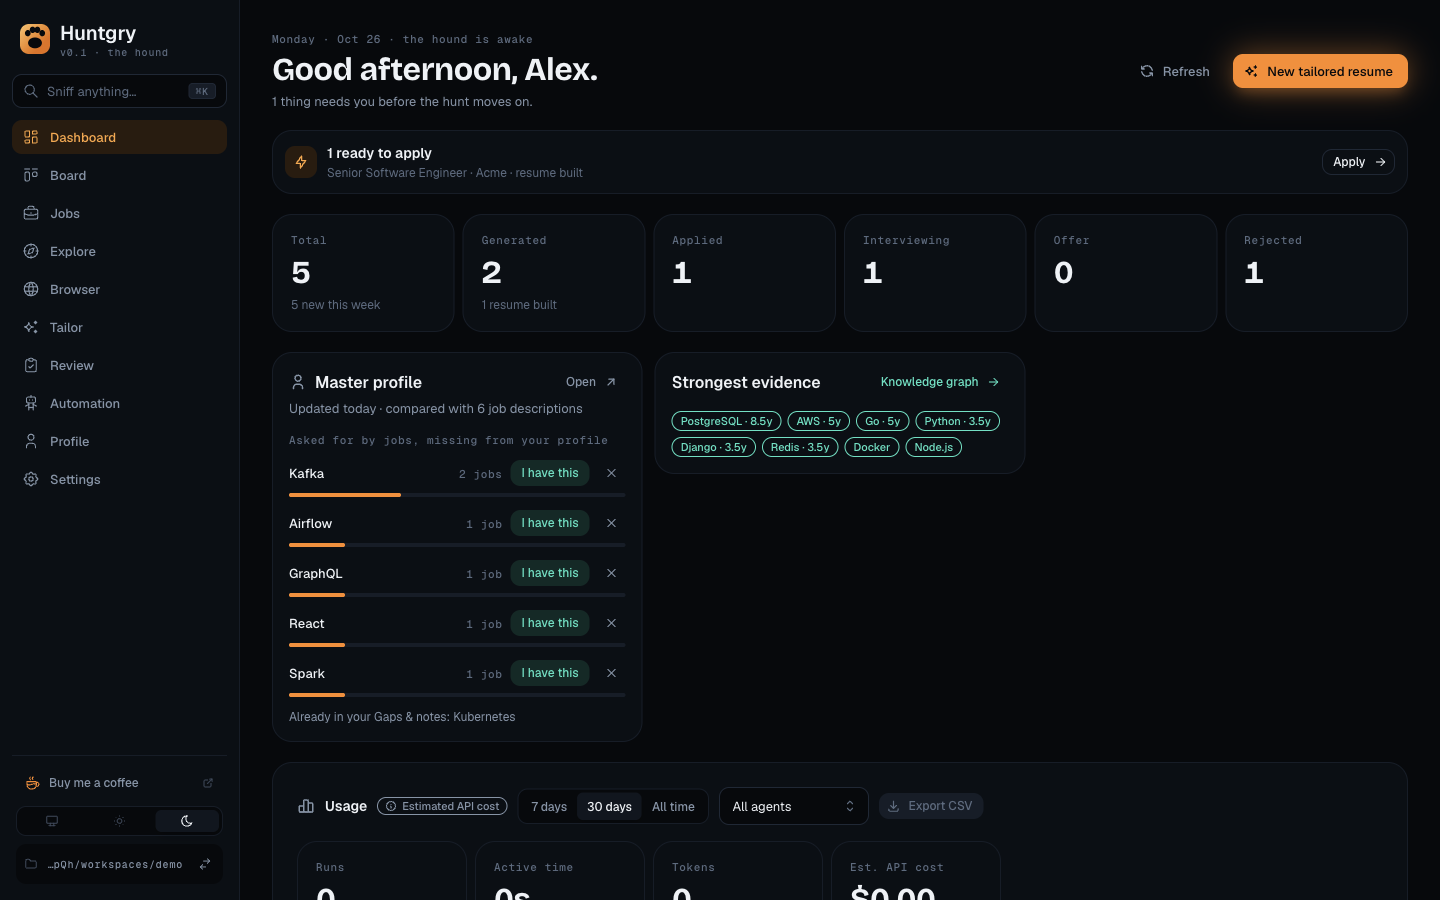
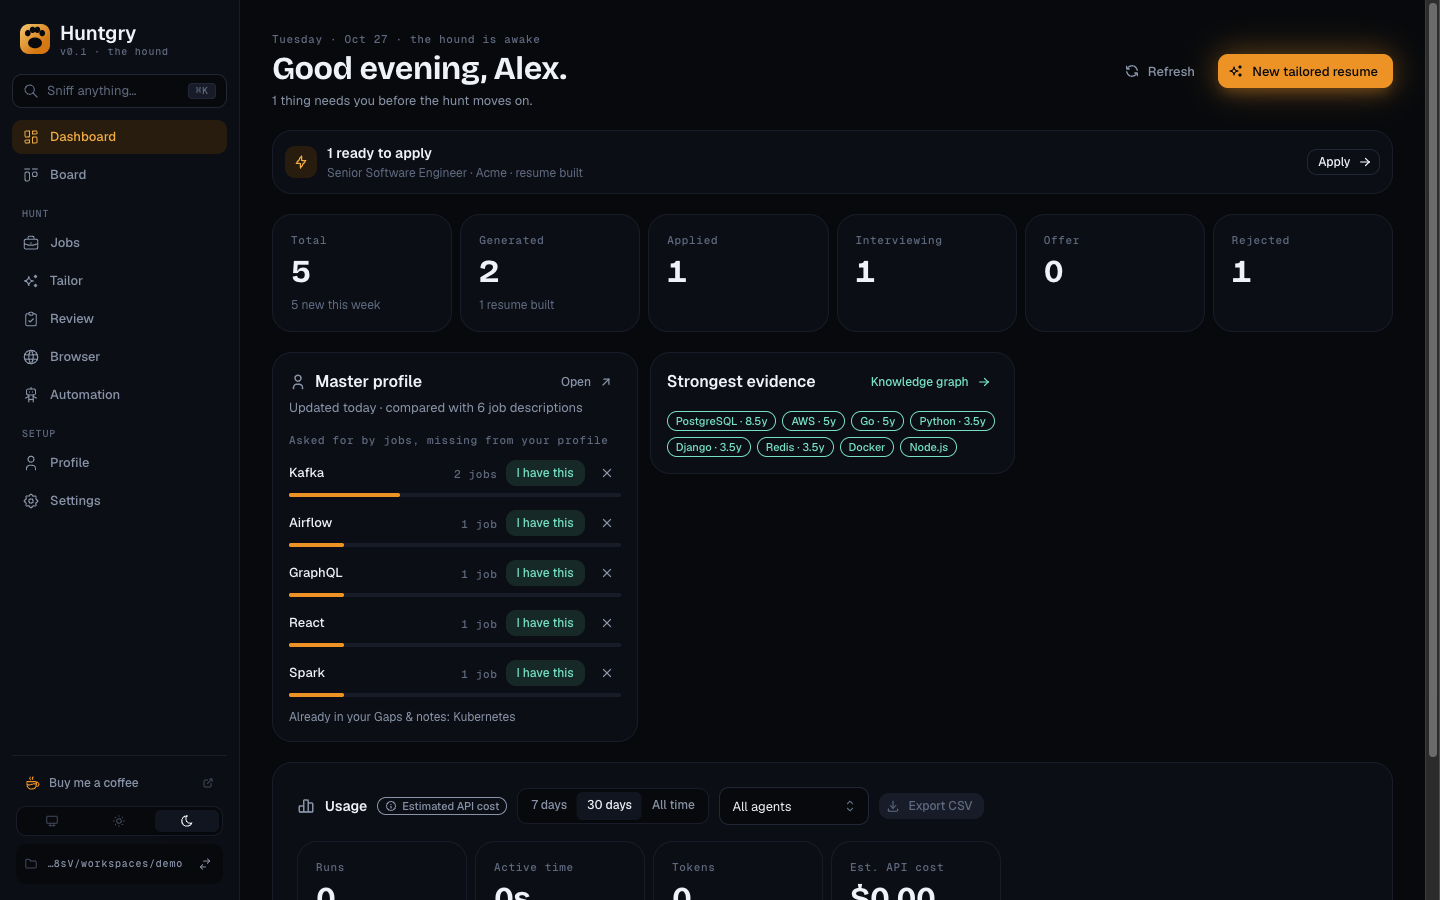
docs(jobs): document the Jobs tabs and retake the screenshots
Adds docs/changes/189-jobs-tabs.md with the PR screenshots, rewrites the
README's Finding jobs section for Discover and Saved, and retakes the README
shots for the regrouped sidebar.

Refs #189

diff --git a/docs/changes/189-jobs-tabs.md b/docs/changes/189-jobs-tabs.md
@@ -1,0 +1,72 @@
+# #189 — Jobs: Discover and Saved tabs, one match score, sidebar in hunt order
+
+Issue: [silentashish/huntgry#189](https://github.com/silentashish/huntgry/issues/189) · Merges Explore (#142, #169) into Jobs (#78, #111); one score from the match score (#149, #150).
+
+## Context & problem
+
+Explore and Jobs listed the same kind of job row on two pages. A job saved from Explore then showed in three places: Explore as "Added", Jobs, and Board → To do. The two pages scored the same job with two numbers: *Software Engineer, New Grad · Northwind Labs* read **25 match** on Explore and **59 scent** on Jobs, the match score of #149 next to the relevance score of #73. Their filter bars named the same things differently (H1B vs. Visa, On Site vs. Onsite), there were two ways to add a job on Jobs (a URL box and "Paste a job"), and the sidebar listed Explore and Browser between Jobs and Tailor, not in the order a hunt goes.
+
+## What changed and why
+
+| Area | Files | What |
+| --- | --- | --- |
+| Jobs page | `pages/jobs/index.tsx`, `pages/jobs/tabs.ts` | One page with a `Discover` · `Saved (n)` switch under the header, the Profile page's view-switch pattern (a `SegmentedControl` named "Jobs view", picked by `params.tab`, so each tab is deep-linkable). The page owns the saved list both tabs read, the open drawer and the Add job dialog. `jobsTab(params, savedCount)` is the pure rule for the tab it opens on: `openId` → Saved, else `tab`, else Saved when there is a saved job in play and Discover when there is none. Once chosen the tab stays, so saving the first job on Discover does not jump to Saved. |
+| Discover | `pages/jobs/discover/*` (moved from `pages/explore/*`) | The old Explore page as a tab, its logic unchanged: category, Jobright banner, day buttons, filters, rows, Refresh and "Updated … ago". "Add to Jobs" is **Save**; a saved row reads **Saved ✓** and clicking it switches to Saved with the job's drawer open. A saved row shows its saved job's match score, so the two tabs agree even after the full posting was fetched. |
+| Saved | `pages/jobs/SavedTab.tsx`, `view.ts` | The old Jobs page body, behaviour unchanged: Relevant / All / Not tailored / Tailored / Dismissed, filters, Tailor all, Dismiss, the drawer. `relevanceView` (was `scentView`) scores every job once and returns the relevance (ranks Relevant, gives "why it fits"), the Relevant list and the match score of every job. |
+| One score | `JobRow.tsx`, `JobDrawer.tsx`, `MatchBadge.tsx`, `labels.ts`, `shared/explore-score.ts`, `pages/board/card.ts`, `BoardCardView.tsx` | Rows show the `MatchBadge` Discover shows; the drawer and Board cards show the match score in their ring, with what it is made of (you have / missing / failed must-haves). `jobMatch(job, signals)` gives a saved job's match score the way its Discover row was scored: exact from the description, a title-only "≈" estimate without one. Relevance is still computed and still ranks Relevant, but it is no longer shown as a number. "Strong / Fair / Faint scent" reads "… match"; the ring's name is "Match N of 100". |
+| Add job | `pages/jobs/AddJobModal.tsx`, `addJob.ts` (replaces `PasteModal.tsx`) | One "Add job" button in the header, on both tabs, opens one dialog with one box. `addJobInput` decides: a lone http(s) URL is a link (Huntgry reads the posting), 50+ characters of anything else are a posting's text (title, company and link fields appear, optional). The Board's header button and the ⌘K action ("Add job") open the same dialog; the Board's To do link box stays. Main's "paste the description" hint now names "Add job". |
+| Filter labels | `discover/DiscoverTab.tsx` | Discover's H1B select is "Visa sponsorship" with the Saved tab's options (`Visa: any`, `Visa: hide "no sponsorship"`, `Visa: only sponsors`); its work model is "Workplace" with `Onsite`. Same filter values underneath. |
+| Sidebar | `navigation.ts`, `components/shell/Sidebar.tsx`, `shell.module.css` | `NAV_GROUPS` is the one place the order is written: Dashboard, Board · **Hunt**: Jobs, Tailor, Review, Browser, Automation · **Setup**: Profile, Settings. `PAGES` is derived from it and the ⌘K palette's Go to follows `PAGES`. A group is a `role="group"` with `aria-label`; its label is a small muted `MonoLabel`, `aria-hidden` (the group name already announces it) and not focusable. |
+| Old Explore page | `navigation.ts`, `App.tsx`, `components/palette/*`, `AppLayout.tsx` | `explore` is gone from `PAGES`, `PAGE_LABEL`, the sidebar icons, `App.tsx` and the palette. `redirect()` turns `explore` into `jobs` with `{ tab: 'discover' }`, as it turns `graph` into Profile's graph view, so an old `navigate('explore')` lands on Discover. The palette has "Jobs → Discover" and "Jobs → Saved"; typing "explore" still finds Discover. |
+| Wording | Settings → Jobright, Automation, README | "Explore" reads "Discover" where users see it. The workspace cache keeps its folder (`.huntgry/explore/`) and Automation keeps its `explore` source key, so nothing on disk changes. |
+
+```mermaid
+flowchart LR
+    subgraph Jobs["Jobs (sidebar → Hunt)"]
+        direction LR
+        D["Discover<br/>Jobright's daily list<br/>match score per row"]
+        S["Saved (n)<br/>Relevant · All · Not tailored · Tailored · Dismissed<br/>same match score"]
+        A["Add job<br/>link or pasted text"]
+        D -- "Save" --> S
+        D -- "Saved ✓ (opens the drawer)" --> S
+        A --> S
+    end
+    E["navigate('explore')<br/>⌘K: Jobs → Discover"] -. "redirect()" .-> D
+    S -- "Tailor resume / Tailor all" --> T["Tailor"]
+    S -- "every saved job" --> B["Board → To do"]
+    T --> B
+```
+
+## Decisions and alternatives
+
+- **One page, tabs in the URL params, not two pages under one sidebar entry.** Same as Profile's Editor / Knowledge graph / Skills (#95): a page-level switch picked by params, so the palette, Automation's links and old `navigate('explore')` calls reach a tab directly.
+- **Only the shown tab is mounted.** Mounting Discover behind Saved would read the Jobright list on every visit to Saved. Discover keeps its category in `localStorage` as before; its day and text filters reset when you switch away, as they did when you left Explore.
+- **The tab is chosen once.** Without that, saving the first job on Discover would flip the default to Saved under the user. A navigation that names a tab or a job to open chooses again.
+- **Match score shown, relevance kept for ranking.** The issue asks for one number. Relevance mixes title, skills, seniority, location and recency and is right for ordering the Relevant list; the match score is the number Discover, Automation and the Board already reason about. Rejected: showing both (the bug), or ranking Relevant by match (a well-titled job without skills listed would sink).
+- **Board cards switch too.** The Board opens the same drawer; a card saying 59 next to a drawer saying 25 would have kept the bug alive one page over.
+- **One box for link or text, not a dialog with two modes.** The input itself tells which it is; title and company only appear for text. Rejected: a URL field plus a text area (the old two ways in one dialog).
+- **No duplicate "Add job" in Saved's empty state.** It already says "Discover jobs" and the header button is right above it.
+- **Labels aligned, not a shared filter bar.** Discover filters Jobright's fields (H1B, salary from the API), Saved filters saved jobs (sponsorship read from the text, seniority, date posted). Sharing the component is the follow-up below.
+
+## How to test
+
+- `npx vitest run src/renderer src/shared` — `tabs.test.ts` (the default tab), `navigation.test.ts` (groups, `PAGES` derived from them, `explore` → Jobs → Discover), `addJob.test.ts`, `view.test.ts` (Saved rows carry the match score, the same as the Discover row for the Northwind job), `labels.test.ts`, `JobsPage.dom.test.tsx` (default tab, one Add job per tab, Saved ✓ switching tabs and showing the Discover number on the row and in the drawer, staying on Discover after the first save), `DiscoverTab.dom.test.tsx`, `card.test.ts`.
+- `npm run test:e2e -- tests/shell.spec.ts tests/explore.spec.ts tests/explore-jobright.spec.ts tests/jobs.spec.ts tests/board.spec.ts tests/automation.spec.ts tests/tailor-queue.spec.ts`.
+- By hand (demo workspace with the mock Jobright, or a real one): open Jobs. With no saved jobs it opens on Discover. Save *Software Engineer, New Grad · Northwind Labs*: the row reads Saved ✓ and the tab stays. Click Saved ✓: Saved opens with the drawer, showing the same number as the row. Press ⌘K, type "explore": "Jobs → Discover". Add job: paste a URL (no title fields), then paste text (title, company and link appear).
+
+## Screenshots
+
+| | |
+| --- | --- |
+| Jobs → Discover, a saved row reads Saved ✓ | <img src="189-images/jobs-discover.png" alt="Jobs page on the Discover tab: Jobright list with match badges, one row reads Saved" width="560"> |
+| Jobs → Saved, rows with the match badge | <img src="189-images/jobs-saved.png" alt="Jobs page on the Saved tab: saved jobs with match badges and the Tailor all and Add job buttons" width="560"> |
+| Saved ✓ → the drawer, same number | <img src="189-images/jobs-saved-drawer.png" alt="The job drawer of the Northwind job with its match score" width="560"> |
+| Add job, a link | <img src="189-images/add-job-link.png" alt="Add job dialog with a URL in the box" width="560"> |
+| Add job, pasted text | <img src="189-images/add-job-text.png" alt="Add job dialog with posting text and the title, company and link fields" width="560"> |
+| Sidebar in hunt order | <img src="189-images/sidebar.png" alt="Sidebar: Dashboard, Board, then Hunt and Setup groups" width="200"> |
+
+## Follow-ups
+
+- **One shared filter bar for both tabs** (out of scope here): the same component over Jobright rows and saved jobs, with the Posted filter and Match ≥ N on both.
+- The Board's To do link box could open the Add job dialog instead of its own field.
+- Rename the remaining internal `explore` names (IPC channels, the cache folder, Automation's source key) once there is a migration to carry the cache over.

diff --git a/README.md b/README.md
@@ -251,23 +251,27 @@ review state. See [docs/changes/161-board-replaces-dashboard-list.md](docs/chang
 
 ## Finding jobs
 
-**Jobs** holds the postings you add: give a posting URL (the page is opened once in a hidden
-browser window and its JSON-LD or text read), or paste the description. Huntgry does not
-search job boards (#78). Saved jobs live in `<workspace>/.huntgry/jobs/`; ones found by the
-old hiring.cafe / Indeed search are still listed. **Tailor resume** sends a job to the Tailor
-page with its saved description, company, role and job id.
+**Jobs** has two tabs: **Discover**, the jobs Huntgry lists for you, and **Saved (n)**, the jobs you
+keep. It opens on Saved when you have saved jobs and on Discover when you have none. One **Add job**
+button in the header, on both tabs, takes a posting's link (the page is opened once in a hidden
+browser window and its JSON-LD or text read) or its pasted text, for boards Huntgry cannot read.
+Huntgry does not search job boards (#78). Saved jobs live in `<workspace>/.huntgry/jobs/`; ones
+found by the old hiring.cafe / Indeed search are still listed. **Tailor resume** sends a job to the
+Tailor page with its saved description, company, role and job id. See
+[docs/changes/189-jobs-tabs.md](docs/changes/189-jobs-tabs.md).
 
-Jobs opens on **Relevant**: the saved jobs that fit your master profile (headline and roles,
+Saved opens on **Relevant**: the saved jobs that fit your master profile (headline and roles,
 skills, seniority, location), best first, with the reasons on each card. Filters for visa sponsorship, workplace, seniority, date posted and
 minimum salary apply to any list and are kept in `<workspace>/.huntgry/jobs-prefs.json`. If your
 Work authorization says you need a sponsor, Relevant leaves out postings that say they won't
 sponsor.
 
-The skills part of that score is the job's **match score**: the share of the skills the posting asks
+Every job shows one number, its **match score**: the share of the skills the posting asks
 for (Jobright's extracted skills when a job has them, else the ones its description names) that your
 master profile has evidence for. Must-haves such as a degree in another field, years you don't have,
-a clearance or "no sponsorship" when you need it cap it at 40. Explore, re-scoring and Automation
-build on the same engine. See [docs/changes/149-match-score.md](docs/changes/149-match-score.md).
+a clearance or "no sponsorship" when you need it cap it at 40. A Discover row, the same job on
+Saved, its drawer, its Board card and Automation all show the same number; Relevant ranks with it as
+one part of the fit. See [docs/changes/149-match-score.md](docs/changes/149-match-score.md).
 
 After a run builds a resume, Huntgry scores it again against the same requirements: the Board card,
 the application drawer and Review show **Profile fit 82 · Resume 74 (90% surfaced)** and the skills
@@ -275,30 +279,31 @@ your profile has that the resume left out. The resume selects from the profile a
 it, so the resume can't beat the fit; the score is kept in the application's `huntgry.json`. See
 [docs/changes/151-rescore-after-tailoring.md](docs/changes/151-rescore-after-tailoring.md).
 
-**Explore** lists Jobright's new-grad and internship jobs from the API behind
+**Discover** (the Explore page before #189) lists Jobright's new-grad and internship jobs from the API behind
 [newgrad-jobs.com](https://www.newgrad-jobs.com), one category at a time (New grad · US · Software
 Engineering by default, remembered), grouped by the day they were posted, today first, with days
 past the newest seven folded under **Earlier**. Rows show pay, industry, company size and H1B
-sponsorship, and filter by text, work model, H1B and minimum salary. Huntgry asks for a category
+sponsorship, and filter by text, workplace, visa sponsorship and minimum salary (named as on Saved). Huntgry asks for a category
 only when the workspace has no copy of it and when you click **Refresh**: at most 1,000 rows, in two
 requests. It keeps a copy per category in `<workspace>/.huntgry/explore/`. That API is undocumented
-and Jobright's own: when it fails, Explore shows Jobright's public GitHub list
+and Jobright's own: when it fails, Discover shows Jobright's public GitHub list
 ([jobright-ai/2026-Software-Engineer-New-Grad](https://github.com/jobright-ai/2026-Software-Engineer-New-Grad))
-instead and says so. **Add to Jobs** saves a row as a `jobright` job. See
+instead and says so. **Save** keeps a row as a `jobright` job; the row then reads **Saved ✓**, and
+clicking it opens the job on the Saved tab. See
 [docs/changes/142-explore.md](docs/changes/142-explore.md) and
 [docs/changes/169-explore-newgrad-api.md](docs/changes/169-explore-newgrad-api.md).
 
-Every Explore row shows its **match score** against your master profile, read from the
+Every Discover row shows its **match score** against your master profile, read from the
 qualifications Jobright lists for it. Hover or focus the score to see the skills you have, the ones
 you're missing and any must-have you don't meet. Rows from the GitHub fallback have no
 qualifications, so they show a title-only estimate marked "≈". Sort by **Best match** or keep only
-rows with **Match ≥ N**. Nothing is loaded to score a row, and a job you add keeps the
-qualifications, so Jobs and Automation score it the same way. See
+rows with **Match ≥ N**. Nothing is loaded to score a row, and a job you save keeps the
+qualifications, so Saved and Automation score it the same way. See
 [docs/changes/150-explore-match-score.md](docs/changes/150-explore-match-score.md).
 
 Jobright shows the employer's own posting link only to signed-in users. Sign in once under
-**Settings → Jobright → Connect Jobright** (Explore links there until you do). After that, a job you
-add from Explore, or whose full description you fetch, links the employer's posting, with the
+**Settings → Jobright → Connect Jobright** (Discover links there until you do). After that, a job you
+save from Discover, or whose full description you fetch, links the employer's posting, with the
 Jobright page kept as its board link. You sign in on Jobright's own page, so Huntgry never sees
 your password. See [docs/changes/146-jobright-employer-link.md](docs/changes/146-jobright-employer-link.md).
 
@@ -353,11 +358,11 @@ address outright; packaged builds ignore it too.
 
 ## Automation
 
-**Automation** (sidebar, after Review) prepares applications for the jobs that match well while you are away,
-and stops before Submit. It picks candidates from your saved Jobs and the cached Explore list: Match ≥ 80 with at
+**Automation** (sidebar, last under Hunt) prepares applications for the jobs that match well while you are away,
+and stops before Submit. It picks candidates from your saved jobs and the cached Discover list: Match ≥ 80 with at
 least 4 requirements and no failed must-have (degree, years, clearance, sponsorship), not excluded by Relevant,
-passing your Jobs filters, not applied to or tailored before. For each one, one at a time, it saves an Explore row
-to Jobs, looks up the employer link (while Jobright is connected), reads the full description, scores it again,
+passing your Jobs filters, not applied to or tailored before. For each one, one at a time, it saves a Discover row
+to Saved, looks up the employer link (while Jobright is connected), reads the full description, scores it again,
 tailors it through the unattended pipeline, and fills the application form in a hidden tab, with AI-drafted
 answers marked and **no file attached and nothing submitted**. The job then waits in **Ready to submit** (also a
 Board column). **Review & submit** approves the result and opens the filled form in Browser with the resume
